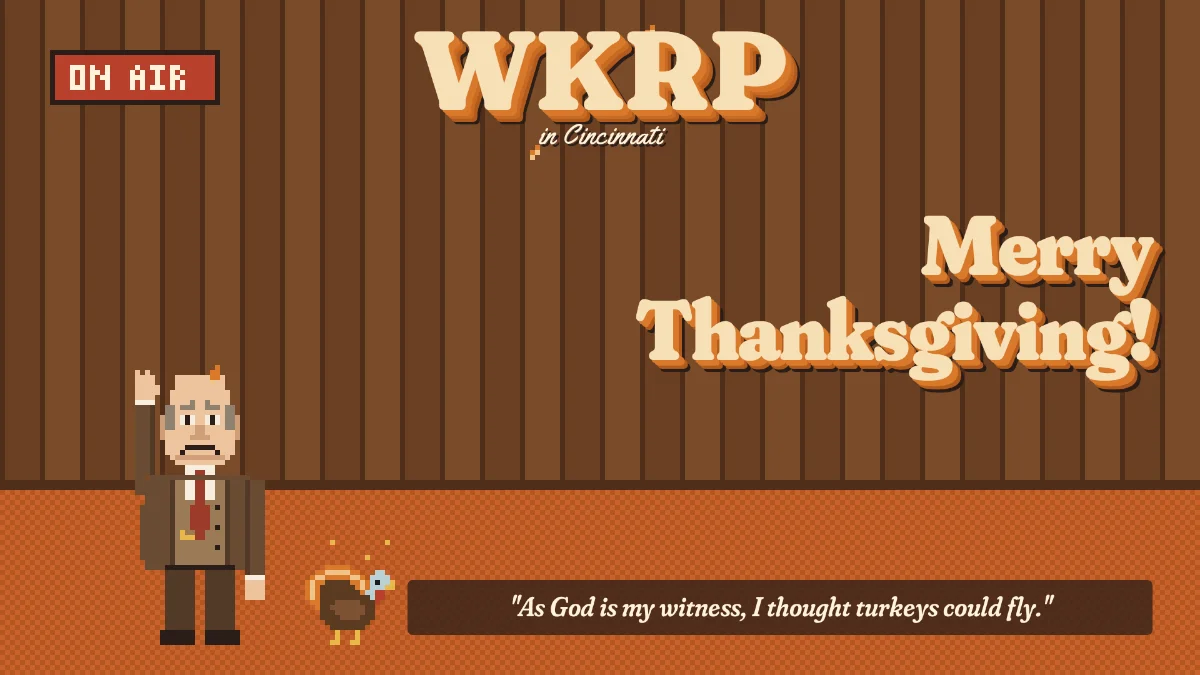
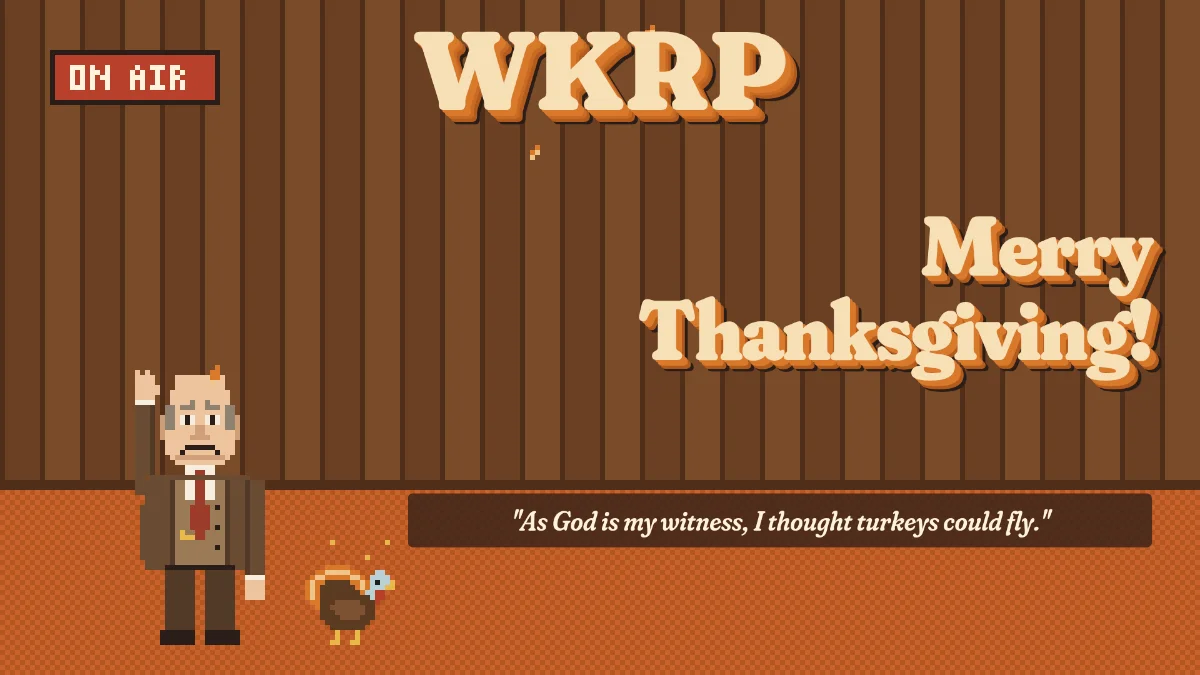
What: Turkeys Away Lettering Reads WKRP Alone. Why: The station plaque and shirt the card is based on say only "WKRP", so the "in Cincinnati" script under the call letters went further than the references. How: The script's span, rule, and Yellowtail font are removed, the tile and link previews are 

diff --git a/src/cards/turkeys-away/turkeys-away-card.module.css b/src/cards/turkeys-away/turkeys-away-card.module.css
@@ -62,17 +62,6 @@
 
 }
 
-@font-face { /* What: Yellowtail Font Face. Why: "in Cincinnati" is set in a 70s script under the call letters. How: This loads the font's Latin regular weight from the card's folder. */
-
-
-	font-display : swap;
-	font-family  : 'Yellowtail';
-	font-weight  : 400;
-	src          : url( './yellowtail-latin-400-normal.woff2' ) format( 'woff2' );
-
-
-}
-
 @font-face { /* What: Pixelify Sans Font Face. Why: The news bulletin types out in a rounded pixel font that matches the art. How: This loads the font's variable Latin file, weights 400 to 700, from the card's folder. */
 
 
@@ -417,19 +406,6 @@
 	font-weight : 900;
 	line-height : var( --ver-rhy-m01 );                  /* Vertical Rhythm Base Minus 1 = 1 */
 	text-shadow : calc( var( --cdn-pow-003-rec ) * 1cqmin ) calc( var( --cdn-pow-003-rec ) * 1cqmin ) 0 var( --tur-ora-col ), calc( var( --cdn-pow-003-rec ) * 2cqmin ) calc( var( --cdn-pow-003-rec ) * 2cqmin ) 0 var( --tur-ora-col ), calc( var( --cdn-pow-003-rec ) * 3cqmin ) calc( var( --cdn-pow-003-rec ) * 3cqmin ) 0 var( --tur-cop-col ), calc( var( --cdn-pow-003-rec ) * 4cqmin ) calc( var( --cdn-pow-003-rec ) * 4cqmin ) 0 var( --tur-bur-col ), calc( var( --cdn-pow-003-rec ) * 5cqmin ) calc( var( --cdn-pow-003-rec ) * 5cqmin ) 0 var( --tur-ink-col ); /* Core-Design-Number to the Power of 3 Reciprocal ~= 0.430cqmin 0.430cqmin 0 plus 0.860cqmin 0.860cqmin 0 plus 1.290cqmin 1.290cqmin 0 plus 1.721cqmin 1.721cqmin 0 plus 2.151cqmin 2.151cqmin 0, Turkeys Orange Color = #d9792b, Turkeys Copper Color = #c86a24, Turkeys Burnt Color = #b25a1c, Turkeys Ink Color = #2a1d17 */
-
-
-}
-
-.logCinSpa { /* What: Logo Cincinnati Span. Why: "in Cincinnati" signs the call letters in a 70s script. How: This sets it in Yellowtail, paper colored with an ink shadow, tucked up under the letters. */
-
-
-	color       : var( --tur-pap-col );                                                                                       /* Turkeys Paper Color = #fff3dc */
-	font-family : 'Yellowtail', var( --fon-fam-mai );                                                                         /* Font Family Main = 'Syne', sans-serif */
-	font-size   : calc( var( --cdn-pow-005 ) * 1cqmin );                                                                      /* Core-Design-Number to the Power of 5 ~= 4.080cqmin */
-	line-height : var( --ver-rhy-m01 );                                                                                       /* Vertical Rhythm Base Minus 1 = 1 */
-	margin-top  : calc( var( --cdn-pow-001-rec ) * -1cqmin );                                                                 /* Core-Design-Number to the Power of 1 Reciprocal ~= -0.755cqmin */
-	text-shadow : calc( var( --cdn-pow-004-rec ) * 1cqmin ) calc( var( --cdn-pow-004-rec ) * 1cqmin ) 0 var( --tur-ink-col ); /* Core-Design-Number to the Power of 4 Reciprocal ~= 0.325cqmin, Turkeys Ink Color = #2a1d17 */
 
 
 }

diff --git a/src/cards/turkeys-away/turkeys-away-card.tsx b/src/cards/turkeys-away/turkeys-away-card.tsx
@@ -335,12 +335,10 @@ function TurCarCom () : JSX.Element {
 								ref={ logDivRef }
 
 								className={ cssModObj.logStaDiv }
-							>{ /* What: Logo Station Div Element. Why: The station's lettering tops both scenes. How: This holds the call letters and their script. */ }
+							>{ /* What: Logo Station Div Element. Why: The station's lettering tops both scenes. How: This holds the call letters. */ }
 
 
 								<span className={ cssModObj.logWorSpa }>WKRP</span>{ /* What: Logo Word Span Element. Why: The call letters are the station's mark. How: This shows them in the chunky serif. */ }
-
-								<span className={ cssModObj.logCinSpa }>in Cincinnati</span>{ /* What: Logo Cincinnati Span Element. Why: The script signs the call letters. How: This shows it under them. */ }
 
 
 							</div>

diff --git a/src/ui/card-data.ts b/src/ui/card-data.ts
@@ -196,7 +196,7 @@ const CAR_DAT_ARR : CarDatTyp[] = [ // What: Card Data Array. Why: Every page th
 		lisBoo : true,
 		occStr : 'Holiday',
 		sluStr : 'turkeys-away',
-		socStr : 'turkeys-away.png',
+		socStr : 'turkeys-away-2.png',
 		titStr : 'Turkeys Away',
 
 		altStr : 'The Turkeys Away card, its station manager and a dazed turkey under a Merry Thanksgiving greeting.',

diff --git a/CLAUDE.md b/CLAUDE.md
@@ -259,7 +259,9 @@ and no sender.
   lettering is our own, set in Fraunces in the show's chunky 70s style, never
   the show's logo, and the station manager is drawn as a type (a balding man
   in a three-piece suit, hand raised) rather than a likeness of the actor.
-  The episode's lines are quoted as said: "For those of you who just tuned in,
+  The lettering reads "WKRP" alone (decided by the user 2026-11-25, dropping
+  an "in Cincinnati" script and its Yellowtail font), since the plaque and
+  shirt the card is based on say only "WKRP". The episode's lines are quoted as said: "For those of you who just tuned in,
   the Pinedale Shopping Mall has just been BOMBED with live turkeys." (Johnny
   Fever's; "Mall", not the "Shopping Center" the show says once, and no "Film
   at 11"), "Oh, the humanity!", and "As God is my witness, I thought turkeys
@@ -286,7 +288,7 @@ and no sender.
   render.mts`, using `subset-font` and the `@fontsource-variable/fraunces`
   package) pins its softness, optical size, and wonkiness, narrows its
   weights, and keeps every character Fontsource covers, about 25 to 40 KB a
-  file. Yellowtail and Pixelify Sans are copied from Fontsource as usual.
+  file. Pixelify Sans is copied from Fontsource as usual.
 - **The heading fades its opacity only**, so "Merry Thanksgiving" stays in the
   page from the start as the card's `h1`; the rest of the lettering fades in
   and out with GSAP's autoAlpha.
@@ -300,8 +302,9 @@ and no sender.
   turned phone puts it back in place. It's drawn on the canvas, so it never
   shows under reduced motion, where taps do nothing.
 - **Previews**: the tile preview is the finished studio captured full screen
-  at 1,920 by 1,080, and the link preview `public/social/turkeys-away.png`
-  ships as a PNG (about 74 KB). The link preview script now also moves a main
+  at 1,920 by 1,080, and the link preview `public/social/turkeys-away-2.png`
+  ships as a PNG (about 69 KB), renamed with a `-2` when the script was
+  dropped, since apps cache previews. The link preview script now also moves a main
   line set to one side into the center square, which only this card's
   greeting needs.
 - **Tests**: the card's states are desktop (in the set), phone, and a phone
